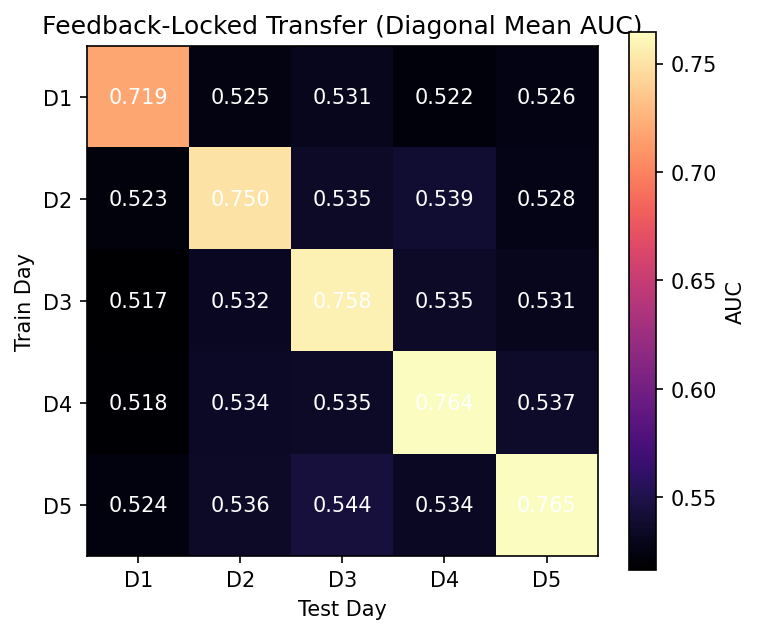
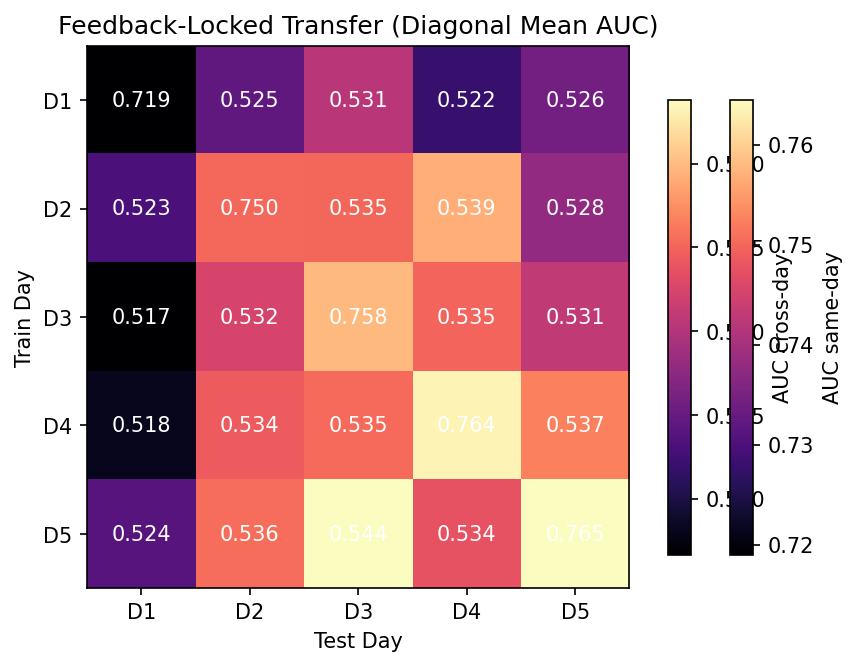
more colar bar rescale

diff --git a/code/mvpa_feedback_locked_cat_tg_figure.py b/code/mvpa_feedback_locked_cat_tg_figure.py
@@ -67,8 +67,20 @@ def save_fig_mvpa_feedback_locked_cat_tg(
             f"Missing day-pair rows in {cross_day_mean_csv}:\n"
             + "\n".join(missing_pairs)
         )
-    masked = np.ma.masked_invalid(mat)
-    im = ax.imshow(masked, cmap="magma", aspect="equal")
+    diag_mat = np.full_like(mat, np.nan)
+    offdiag_mat = np.full_like(mat, np.nan)
+    for i in range(len(day_grid)):
+        for j in range(len(day_grid)):
+            if i == j:
+                diag_mat[i, j] = mat[i, j]
+            else:
+                offdiag_mat[i, j] = mat[i, j]
+    im_offdiag = ax.imshow(
+        np.ma.masked_invalid(offdiag_mat), cmap="magma", aspect="equal"
+    )
+    im_diag = ax.imshow(
+        np.ma.masked_invalid(diag_mat), cmap="magma", aspect="equal"
+    )
     ax.set_xticks(range(len(day_grid)))
     ax.set_yticks(range(len(day_grid)))
     x_labels = []
@@ -86,8 +98,11 @@ def save_fig_mvpa_feedback_locked_cat_tg(
         for j in range(len(day_grid)):
             if np.isfinite(mat[i, j]):
                 ax.text(j, i, f"{mat[i, j]:.3f}", ha="center", va="center", color="white")
-    fig.colorbar(im, ax=ax, shrink=0.9, label="AUC")
-    fig.tight_layout()
+    cax_offdiag = fig.add_axes([0.82, 0.18, 0.03, 0.66])
+    cax_diag = fig.add_axes([0.90, 0.18, 0.03, 0.66])
+    fig.colorbar(im_offdiag, cax=cax_offdiag, label="AUC cross-day")
+    fig.colorbar(im_diag, cax=cax_diag, label="AUC same-day")
+    fig.tight_layout(rect=[0, 0, 0.80, 1])
     fig.savefig(fig_cross, dpi=150, bbox_inches="tight")
     plt.close(fig)
 

diff --git a/code/mvpa_stim_locked_cat_tg_figure.py b/code/mvpa_stim_locked_cat_tg_figure.py
@@ -55,8 +55,20 @@ def save_fig_mvpa_stim_locked_cat_tg(
             f"Missing day-pair rows in {cross_day_mean_csv}:\n"
             + "\n".join(missing_pairs)
         )
-    masked = np.ma.masked_invalid(mat)
-    im = ax.imshow(masked, cmap="magma", aspect="equal")
+    diag_mat = np.full_like(mat, np.nan)
+    offdiag_mat = np.full_like(mat, np.nan)
+    for i in range(len(day_grid)):
+        for j in range(len(day_grid)):
+            if i == j:
+                diag_mat[i, j] = mat[i, j]
+            else:
+                offdiag_mat[i, j] = mat[i, j]
+    im_offdiag = ax.imshow(
+        np.ma.masked_invalid(offdiag_mat), cmap="magma", aspect="equal"
+    )
+    im_diag = ax.imshow(
+        np.ma.masked_invalid(diag_mat), cmap="magma", aspect="equal"
+    )
     ax.set_xticks(range(len(day_grid)))
     ax.set_yticks(range(len(day_grid)))
     x_labels = []
@@ -74,8 +86,11 @@ def save_fig_mvpa_stim_locked_cat_tg(
         for j in range(len(day_grid)):
             if np.isfinite(mat[i, j]):
                 ax.text(j, i, f"{mat[i, j]:.3f}", ha="center", va="center", color="white")
-    fig.colorbar(im, ax=ax, shrink=0.9, label="AUC")
-    fig.tight_layout()
+    cax_offdiag = fig.add_axes([0.82, 0.18, 0.03, 0.66])
+    cax_diag = fig.add_axes([0.90, 0.18, 0.03, 0.66])
+    fig.colorbar(im_offdiag, cax=cax_offdiag, label="AUC cross-day")
+    fig.colorbar(im_diag, cax=cax_diag, label="AUC same-day")
+    fig.tight_layout(rect=[0, 0, 0.80, 1])
     fig.savefig(fig_cross, dpi=150, bbox_inches="tight")
     plt.close(fig)
 
